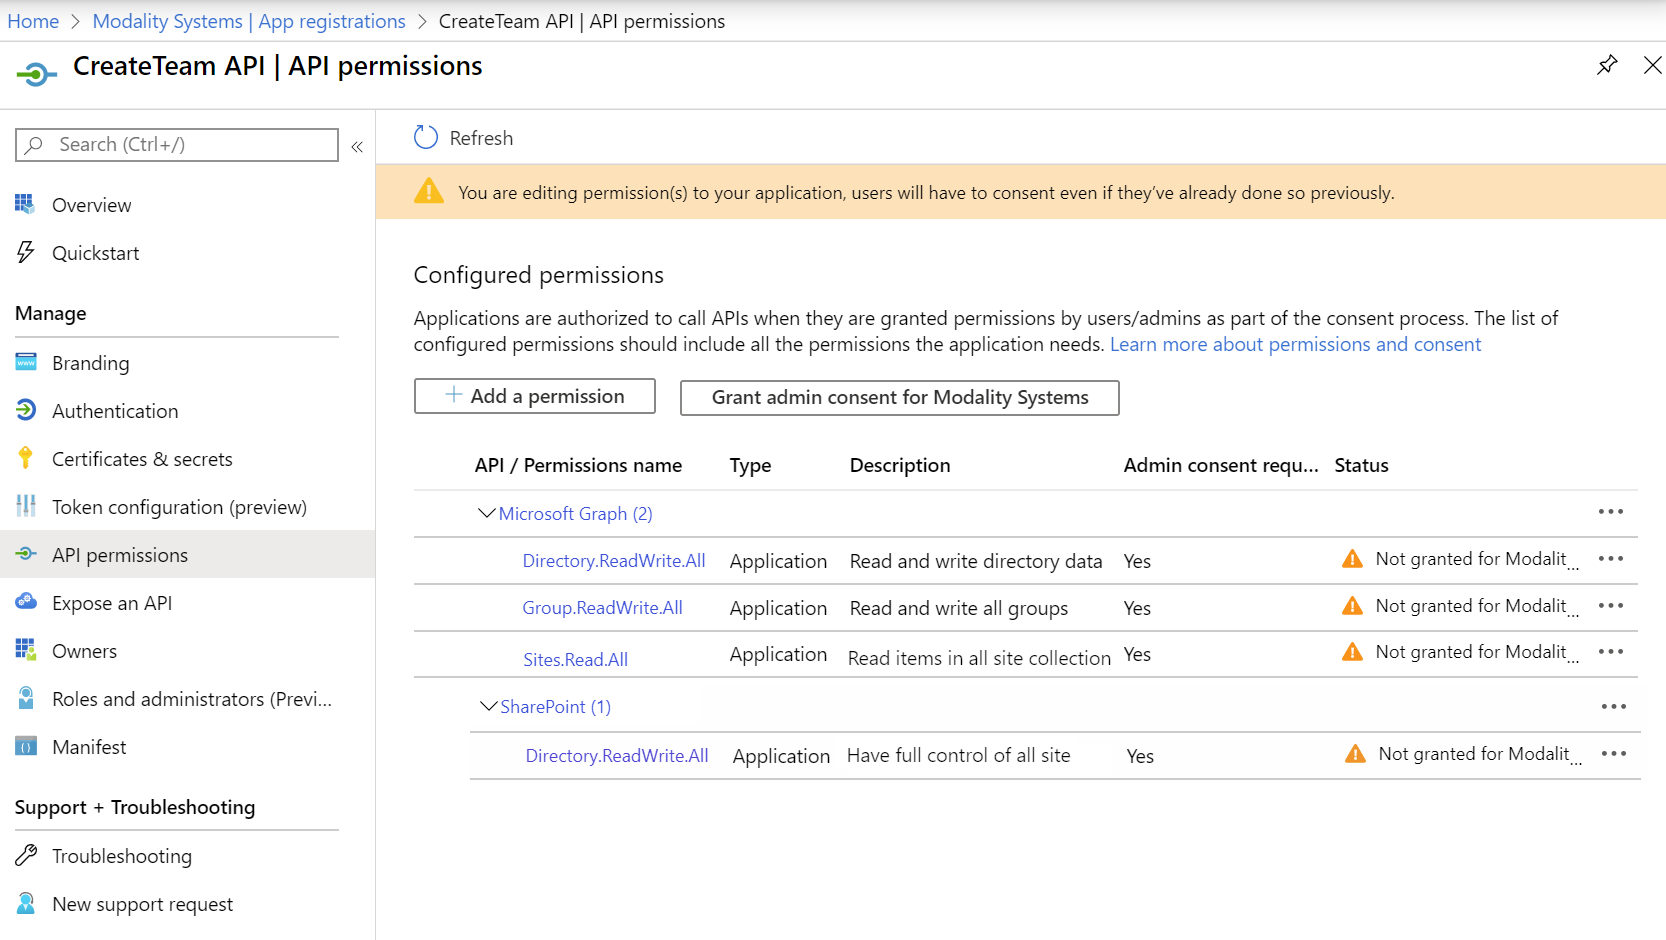
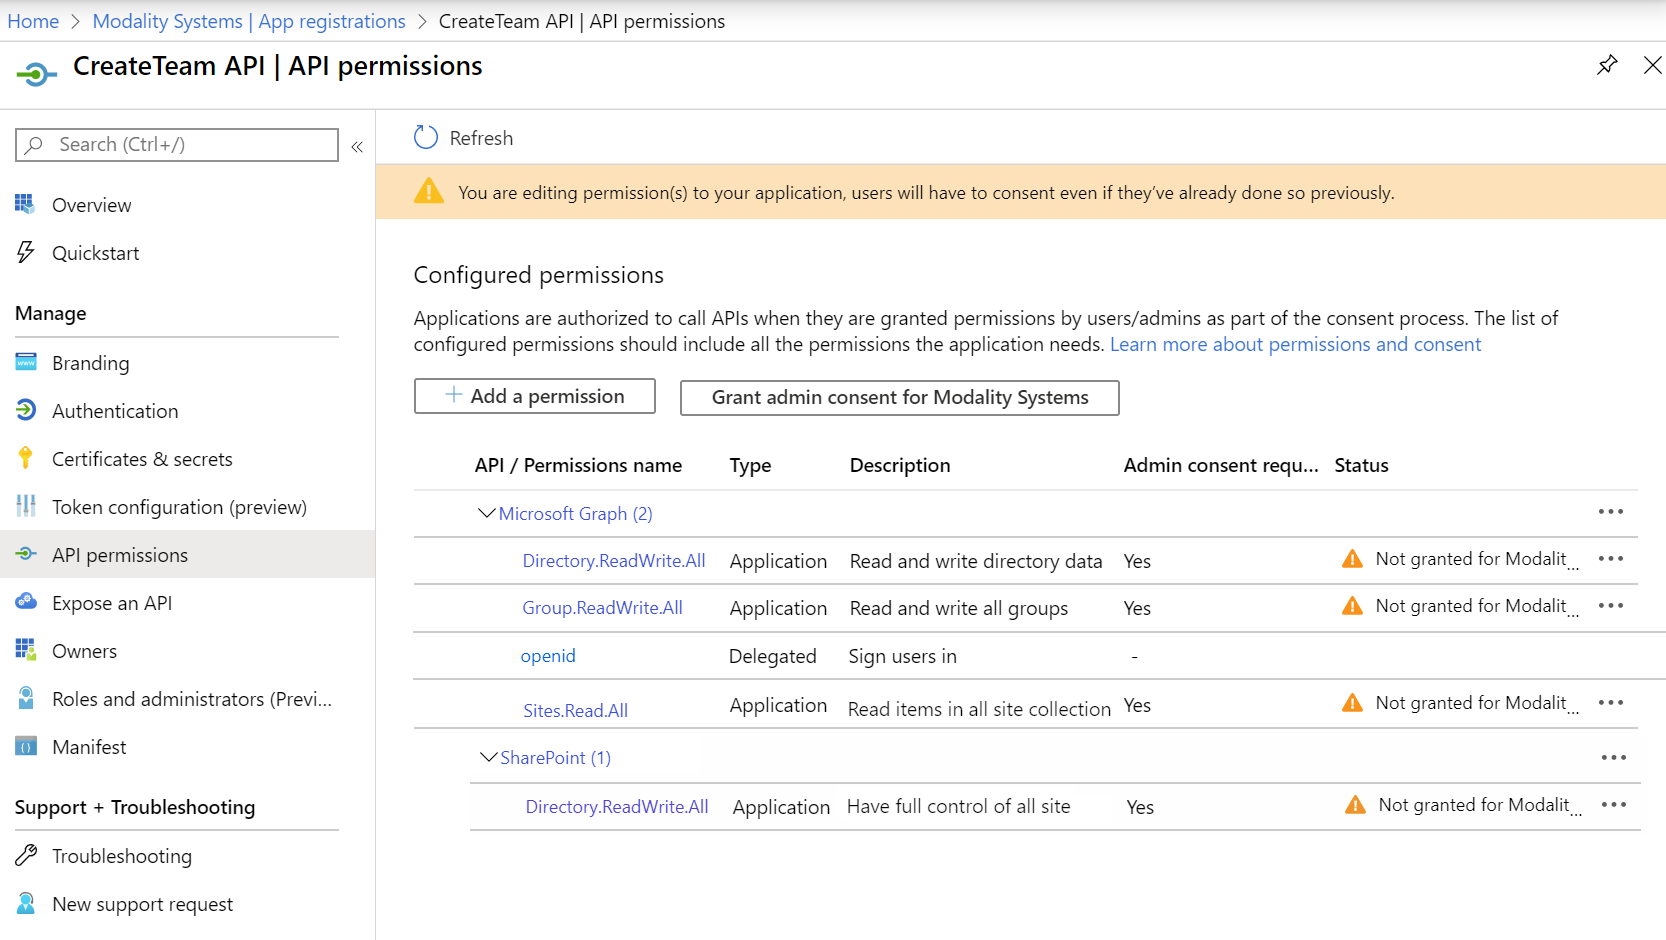
update remaining docs for multi-step auth

Changed region(s): [[0.2497, 0.6787, 0.9988, 0.8947]]

diff --git a/CreateTeam/customerHosted/RegisterApplicationAPI.md b/CreateTeam/customerHosted/RegisterApplicationAPI.md
@@ -11,46 +11,50 @@ Create Team requires two Azure Applications to be configured, one for the API an
 ### Register Create Team with Azure Active Directory
 
 1. Sign in to the [Azure Portal](https://portal.azure.com)
-1. Select the **Azure Active Directory** service from the navigation menu on the top
-1. Select **App Registrations** from navigation pane on the left and then click **+ New Registration** (Take care not to select **App Registrations (Legacy)** as these instructions do not apply to them)
-1. Enter the following application registration details
+2. Select the **Azure Active Directory** service from the navigation menu on the top
+3. Select **App Registrations** from navigation pane on the left and then click **+ New Registration** (Take care not to select **App Registrations (Legacy)** as these instructions do not apply to them)
+4. Enter the following application registration details
    * **Name** - Recommend setting this to **Create Team API**
    * **Supported Account Types** - This needs to be set to **Accounts in any Organizational Directory**
 
    ![RegisterApplication01](../images/customerHosted/registerapplication01.png)
 
-1. Click **Register** and Azure AD will create an Application ID and present the Overview page
+5. Click **Register** and Azure AD will create an Application ID and present the Overview page
     * From this screen use the "Copy to Clipboard" button next to the Application ID, then open Windows Notepad and paste the value with appropriate title. Repeat these steps for Directory ID.
 
 
    ![RegisterApplication02](../images/customerHosted/registerapplication02.png)  
 
-1. Under Manage on the left hand side, click Certificates & Secrets then New Client secret
+6. Under Manage on the left hand side, click Certificates & Secrets then New Client secret
    * Select an appropriate expiry for the secret from 1 year to Never and click Add
 
    ![RegisterApplication03](../images/customerHosted/registerapplication03.png)
 
-1. The next screen will be the only time that the secret will be show so use the "Copy to Clipboard" button and paste into the Windows Notepad window that should still be open with appropriate title.
+7. The next screen will be the only time that the secret will be show so use the "Copy to Clipboard" button and paste into the Windows Notepad window that should still be open with appropriate title.
 
    ![RegisterApplication04](../images/customerHosted/registerapplication04.png)
 
-1. Under Manage on the left hand side, click API permissions then click the 3 dots next to the User.Read permission and click Remove permission
+8. Under Manage on the left hand side, click API permissions then click the 3 dots next to the User.Read permission and click Remove permission
 
    ![RegisterApplication05](../images/customerHosted/registerapplication05.png)
 
-1. The click + Add a permission, then Mircosoft Graph and select Application permissions
+9. Then click + Add a permission, then Mircosoft Graph and select Delegated permissions, search for and add the "openid" permission
+   
+   ![RegisterApplication06](../images/customerHosted/registerapplication-delegatedperms.png)
+
+10. Then select Application permissions, search for and Add Directory.ReadWrite.all, Group.ReadWrite.All and Site.Read.All permissions
 
    ![RegisterApplication06](../images/customerHosted/registerapplication06.png)
 
    * Search for and Add Directory.ReadWrite.all, Group.ReadWrite.All and Site.Read.All permissions
 
-1. The click + Add a permission, then SharePoint and select Application permissions
+11.  The click + Add a permission, then SharePoint and select Application permissions
    
    ![RegisterApplication06b](../images/customerHosted/registerapplication06b.png)
 
    * Search for and Add Sites.FullControl.All permissions
 
-1. Once the permissions have been Added, they will need to be granted Admin Consent by a Global Admin
+12. Once the permissions have been Added, they will need to be granted Admin Consent by a Global Admin
 
    ![RegisterApplication07](../images/customerHosted/registerapplication07b.png)
 
@@ -58,11 +62,11 @@ Create Team requires two Azure Applications to be configured, one for the API an
 
    ![RegisterApplication08](../images/customerHosted/registerapplication08b.png)
 
-1. Under Manage on the left hand side, click Expose an API and the click Set next to Application ID URI and then Save
+13. Under Manage on the left hand side, click Expose an API and the click Set next to Application ID URI and then Save
 
    ![RegisterApplication09](../images/customerHosted/registerapplication09.png)
 
-1. Then Click + Add a scope and enter the following and then Add scope
+14. Then Click + Add a scope and enter the following and then Add scope
 
    ![RegisterApplication10](../images/customerHosted/registerapplication10b.png)
 
@@ -70,7 +74,7 @@ Create Team requires two Azure Applications to be configured, one for the API an
 
    ![RegisterApplication11](../images/customerHosted/registerapplication11b.png)
 
-1. Under Manage on the left hand side, click Manifest and replace the line "appRoles" with the following
+15. Under Manage on the left hand side, click Manifest and replace the line "appRoles" with the following
 
 ```javascript
 "appRoles": [
